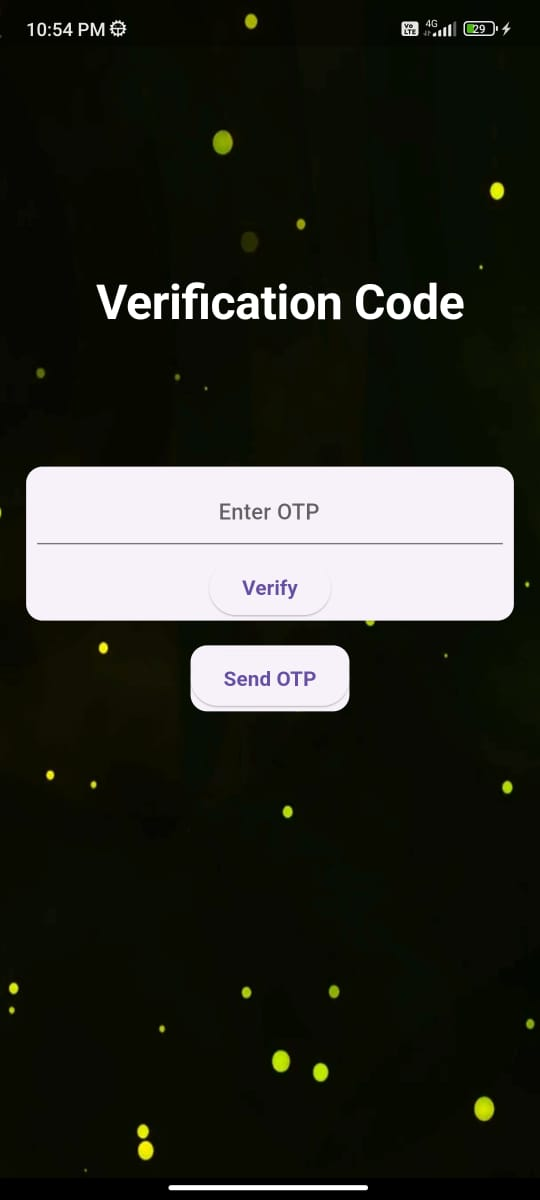
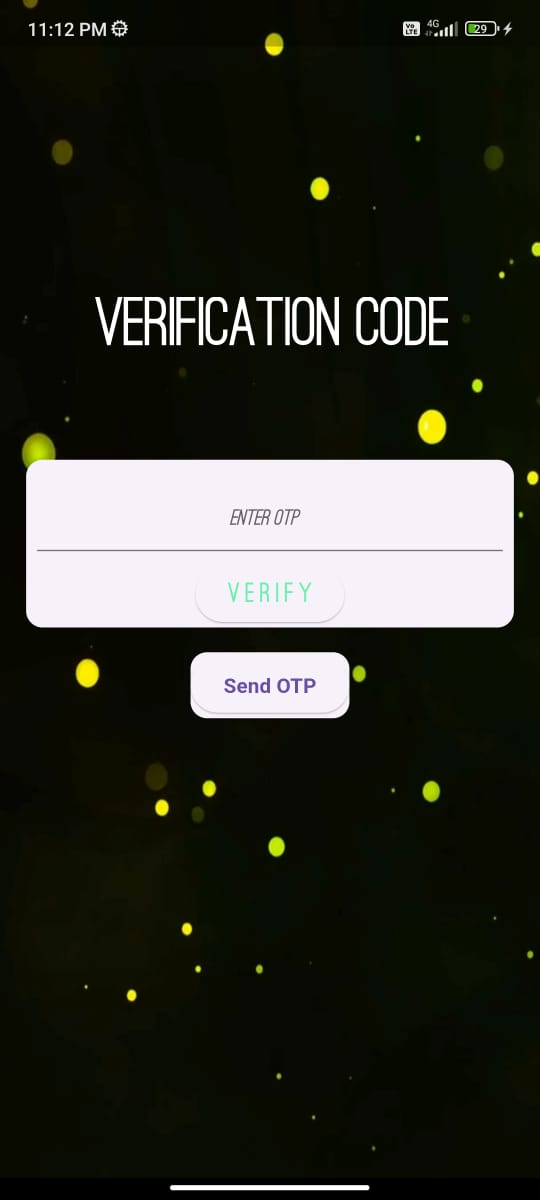
minor

diff --git a/lib/utils/send_mail.dart b/lib/utils/send_mail.dart
@@ -81,7 +81,7 @@ class _SendingMail extends State<SendingMail> {
               left: 70,
               top: 200,
               child:
-              Text("Verification Code",style: Theme.of(context).textTheme.displayLarge!.copyWith(fontStyle:FontStyle.normal,fontSize: 35,color: Colors.white))
+              Text("Verification Code",style: Theme.of(context).textTheme.titleMedium!.copyWith(fontStyle:FontStyle.normal,fontSize: 50,color: Colors.white))
 
           ),
 
@@ -100,7 +100,7 @@ class _SendingMail extends State<SendingMail> {
                             keyboardType: TextInputType.number,
                             controller: otp,
                             decoration:
-                            const InputDecoration(hintText: "                                Enter OTP")),
+                            InputDecoration(hintText: "                                        Enter OTP",suffix:Text("hello",style: Theme.of(context).textTheme.displayLarge!.copyWith(fontSize:30,fontStyle:FontStyle.normal)))),
                       ),
                       ElevatedButton(
                           onPressed: () async {
@@ -117,7 +117,7 @@ class _SendingMail extends State<SendingMail> {
                               ));
                             }
                           },
-                          child: const Text("Verify",style: TextStyle(fontSize: 15,fontWeight: FontWeight.bold),)),
+                          child:  Text("V e r i f y", style:Theme.of(context).textTheme.titleMedium!.copyWith(fontStyle:FontStyle.normal,fontSize: 20,fontWeight: FontWeight.bold))),
                     ],
                   ),
                 ),

diff --git a/lib/main.dart b/lib/main.dart
@@ -32,6 +32,7 @@ class MyApp extends StatelessWidget {
             displayLarge: const TextStyle(color: Colors.green ,fontWeight: FontWeight.bold,fontStyle: FontStyle.italic,fontFamily: "fontmain1"),
             displayMedium: const TextStyle(color: Colors.greenAccent ,fontWeight: FontWeight.bold,fontStyle: FontStyle.italic,fontFamily: "fontmain1"),
             displaySmall: const TextStyle(color: Colors.lightGreen ,fontWeight: FontWeight.bold,fontStyle: FontStyle.italic,fontFamily: "fontmain3"),
+            titleMedium:const TextStyle(color: Colors.greenAccent ,fontWeight: FontWeight.bold,fontStyle: FontStyle.italic,fontFamily: "fontmain4"),
           ),
           primarySwatch: Colors.lightBlue,
         ),
